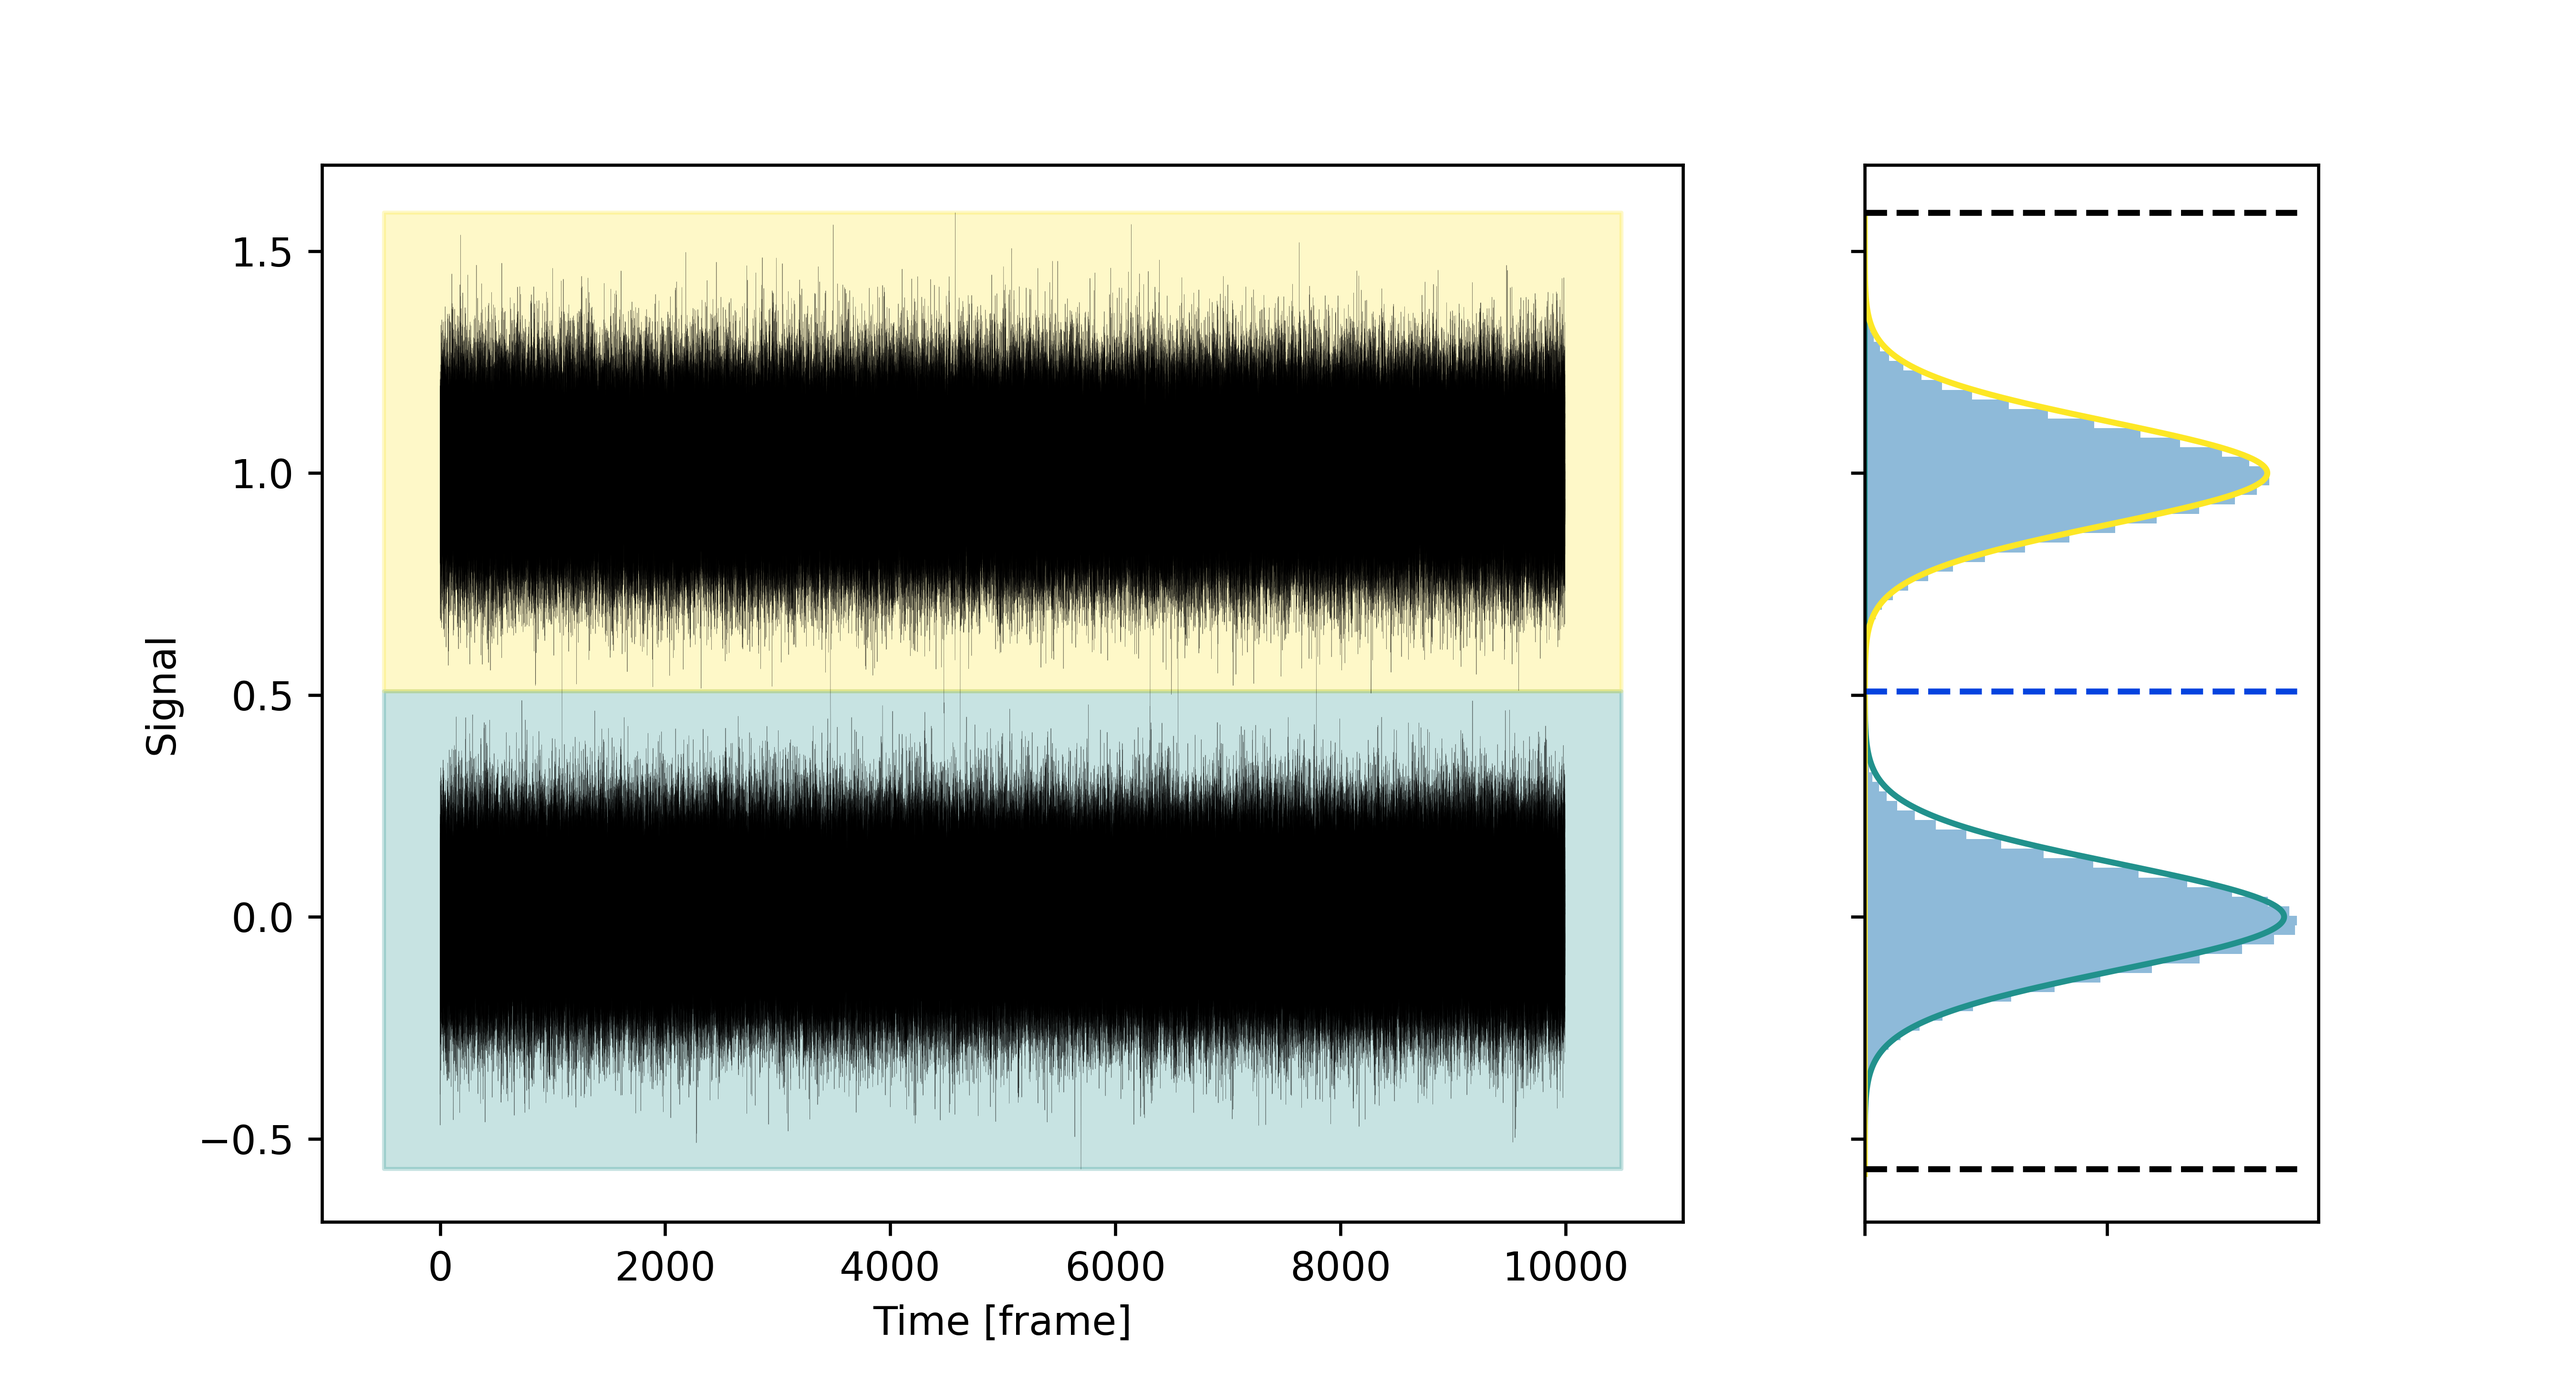
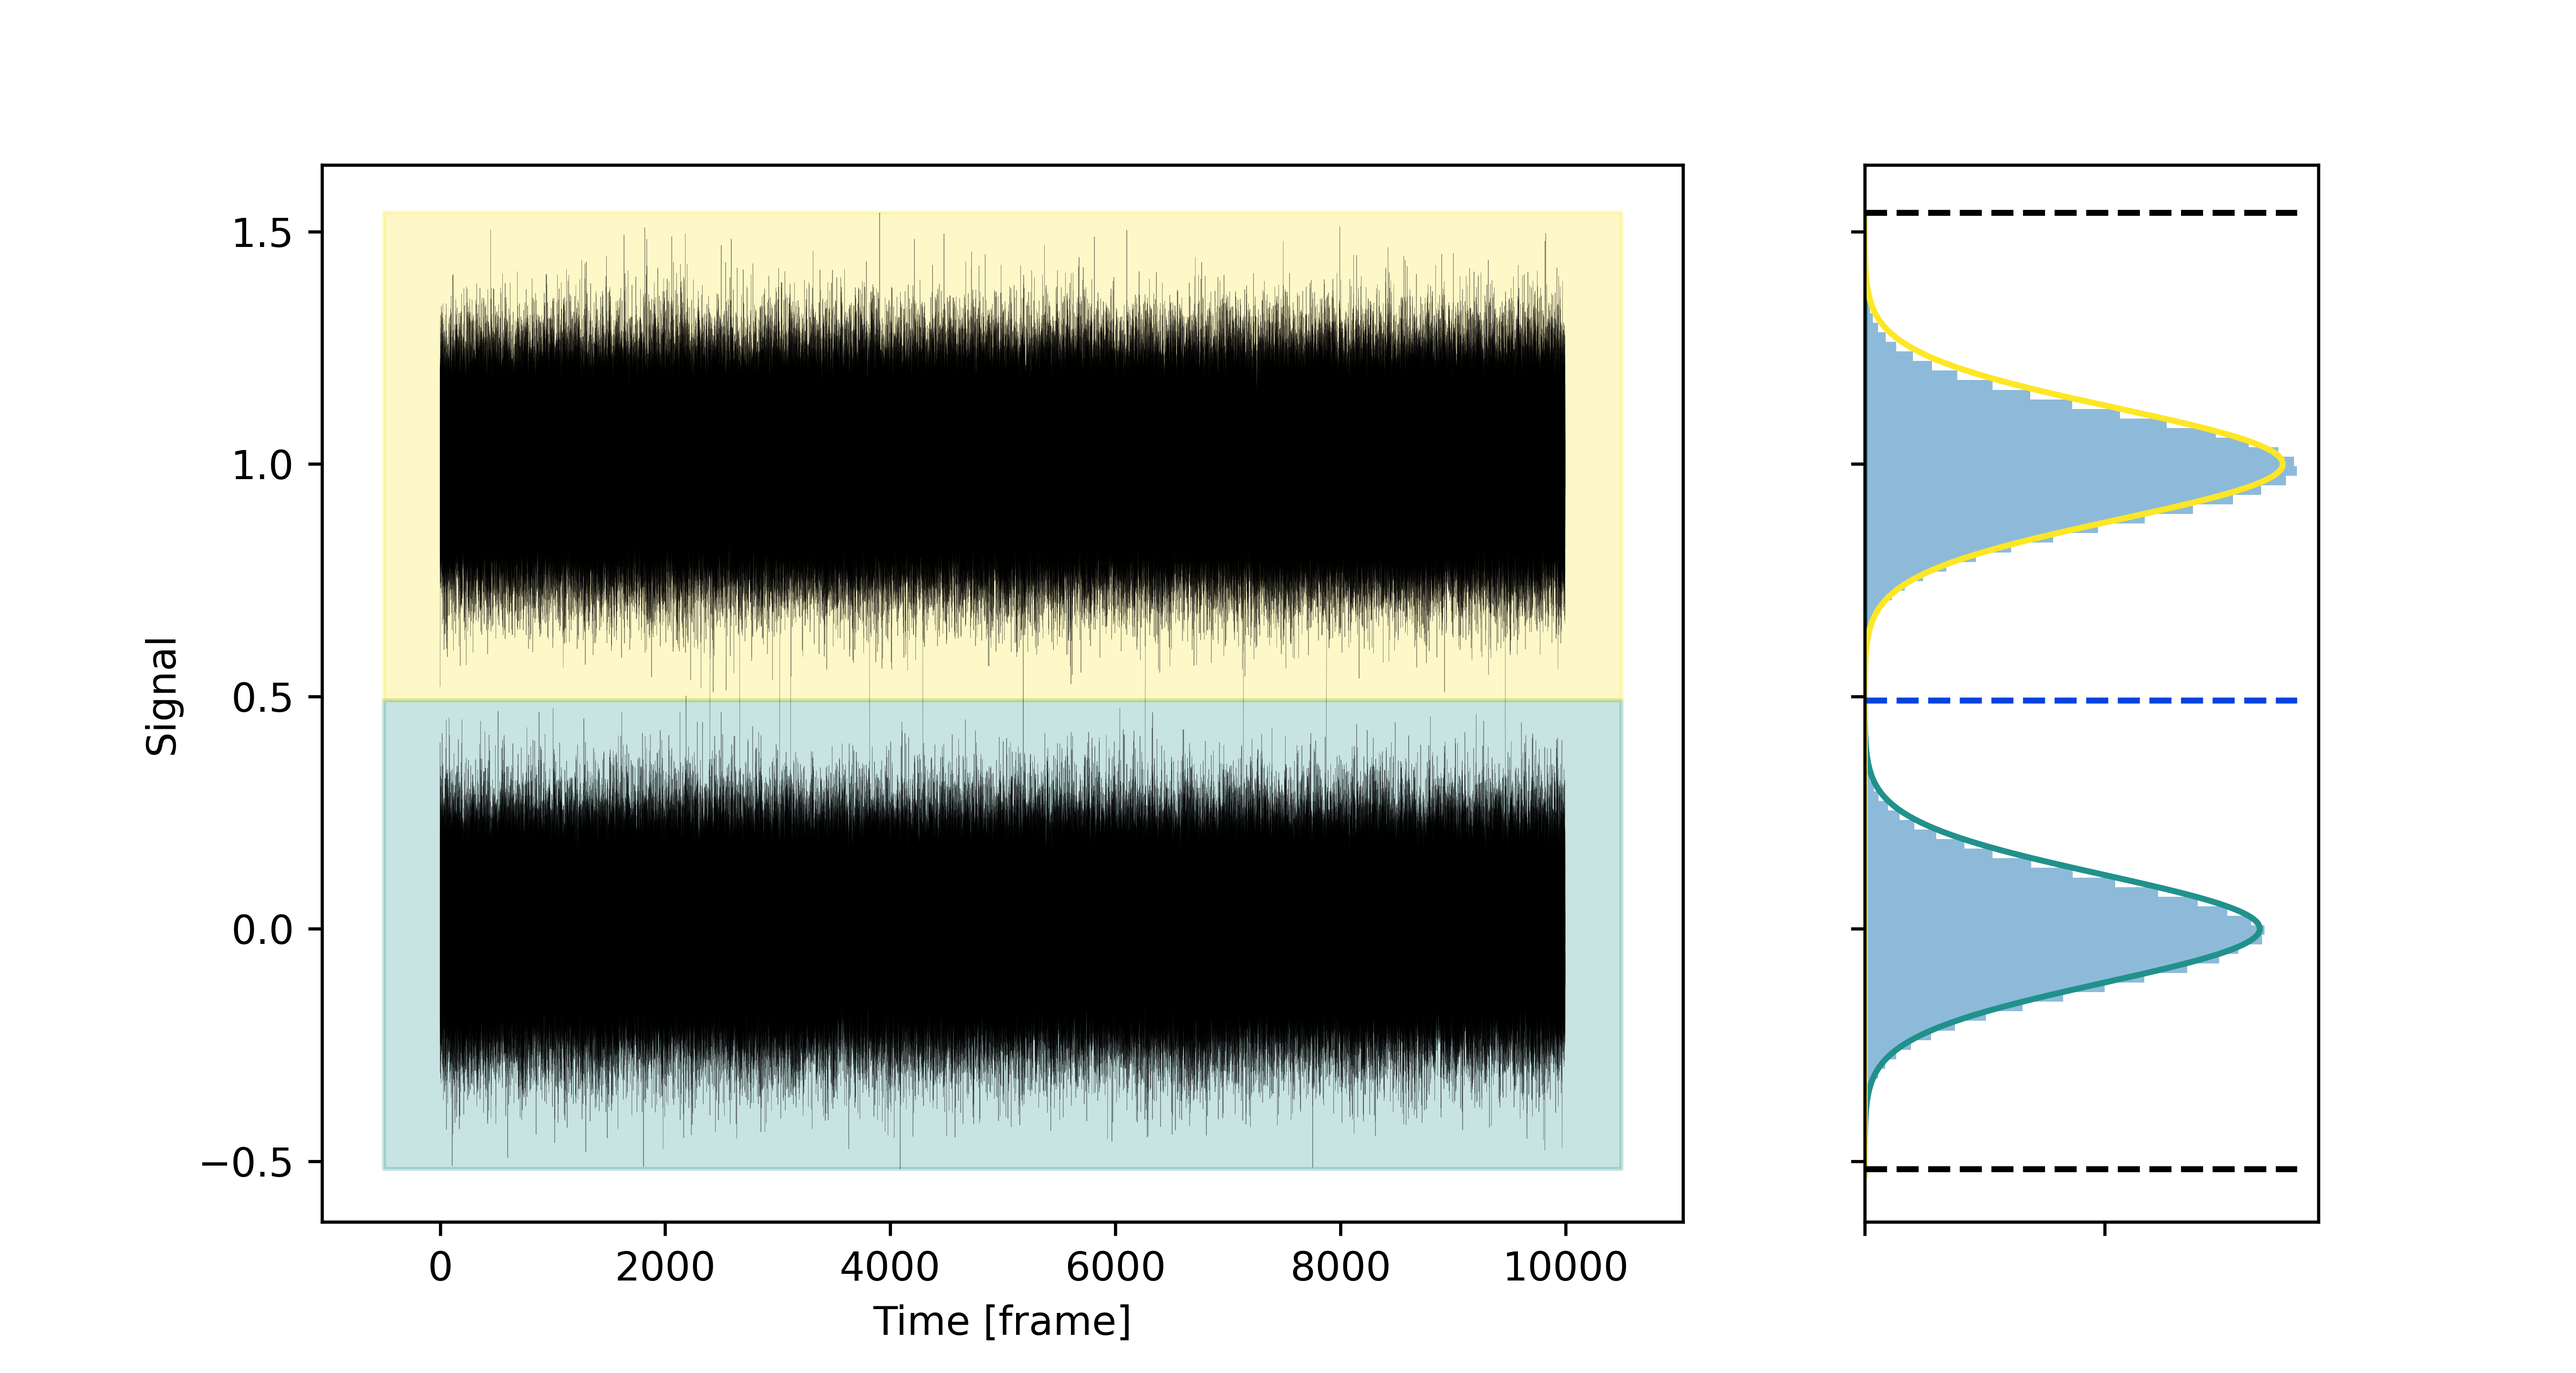
Info gain example is perfect now

diff --git a/examples/info_gain.py b/examples/info_gain.py
@@ -20,17 +20,18 @@ def energy_landscape_1(x: float, y: float) -> float:
     """A potential energy landscape with 2 minima."""
     sigma = 0.12  # Width of the Gaussian wells
     gauss1 = np.exp(-(x**2 + y**2) / (2 * sigma**2))
-    gauss2 = np.exp(-((x - 1) ** 2 + y**2) / (2 * sigma**2))
+    gauss2 = np.exp(-(x**2 + (y - 1) ** 2) / (2 * sigma**2))
     return -np.log(gauss1 + gauss2 + 1e-6)
 
 
 def energy_landscape_2(x: float, y: float) -> float:
-    """A potential energy landscape with 3 minima."""
+    """A potential energy landscape with 4 minima."""
     sigma = 0.12  # Width of the Gaussian wells
     gauss1 = np.exp(-(x**2 + y**2) / (2 * sigma**2))
     gauss2 = np.exp(-((x - 1) ** 2 + y**2) / (2 * sigma**2))
     gauss3 = np.exp(-(x**2 + (y - 1) ** 2) / (2 * sigma**2))
-    return -np.log(gauss1 + gauss2 + gauss3 + 1e-6)
+    gauss4 = np.exp(-((x - 1) ** 2 + (y - 1) ** 2) / (2 * sigma**2))
+    return -np.log(gauss1 + gauss2 + gauss3 + gauss4 + 1e-6)
 
 
 def numerical_gradient(
@@ -43,17 +44,25 @@ def numerical_gradient(
 
 
 def create_trajectory(
-    energy_landscape: Callable[[float, float], float], name: str
+    energy_landscape: Callable[[float, float], float], file_name: str
 ) -> NDArray[np.float64]:
-    """Simulate a Langevin Dynamics on a given energy landscape."""
+    """Simulate Langevin Dynamics on a given energy landscape."""
     rng = np.random.default_rng(0)
     n_atoms = 100
     time_steps = 10000
     dt = 0.01  # Time step
     diffusion_coeff = 0.6  # Diffusion coefficient (random noise strength)
 
-    particles = rng.standard_normal((n_atoms, 2)) * 0.2
-    particles[n_atoms // 2 :, 0] += 1
+    if energy_landscape == energy_landscape_1:
+        particles = rng.standard_normal((n_atoms, 2)) * 0.2
+        particles[n_atoms // 2 :, 1] += 1.0
+    else:
+        particles = rng.standard_normal((n_atoms, 2)) * 0.2
+        n_group = n_atoms // 4
+        particles[n_group : 2 * n_group, 1] += 1  # (0, 1)
+        particles[2 * n_group : 3 * n_group, 0] += 1  # (1, 0)
+        particles[3 * n_group :, 0] += 1  # (1, 1)
+        particles[3 * n_group :, 1] += 1
 
     trajectory = np.zeros((time_steps, n_atoms, 2))
     for t in range(time_steps):
@@ -74,7 +83,7 @@ def create_trajectory(
     plt.show()
 
     dataset = np.transpose(trajectory, (1, 0, 2))
-    np.save(f"info_gain/trj_{name}.npy", dataset)
+    np.save(f"info_gain/{file_name}.npy", dataset)
     return dataset
 
 
@@ -86,73 +95,83 @@ def main() -> None:
     if file_1.exists():
         dataset_1 = np.load(file_1)
     else:
-        dataset_1 = create_trajectory(energy_landscape_1, "1")
+        dataset_1 = create_trajectory(energy_landscape_1, "trj_1")
     if file_2.exists():
         dataset_2 = np.load(file_2)
     else:
-        dataset_2 = create_trajectory(energy_landscape_2, "2")
+        dataset_2 = create_trajectory(energy_landscape_2, "trj_2")
 
     results = []
-    delta_t_list = np.unique(np.geomspace(2, 300, 40, dtype=int))
-    example_delta_t = 4  #  Choosing a ∆t which works well to show results
+    env0 = []
+    delta_t_list = np.unique(np.geomspace(2, 1000, 45, dtype=int))
+    example_delta_t = 4  #  Choosing a ∆t which works well to plot results
 
-    for k, dataset in enumerate([dataset_1, dataset_2]):
+    for i, dataset in enumerate([dataset_1, dataset_2]):
         n_atoms, n_frames, n_dims = dataset.shape
 
         # We can do clustering on one single variable:
-        x_positions = dataset[:, :, 0]
-        info_gain_x = np.zeros(delta_t_list.size)
+        y_positions = dataset[:, :, 1]
+        info_gain_y = np.zeros(delta_t_list.size)
+        tmp_env0 = np.zeros(delta_t_list.size)
 
-        for i, delta_t in enumerate(delta_t_list):
+        for j, delta_t in enumerate(delta_t_list):
             reshaped_data = dynsight.onion.helpers.reshape_from_nt(
-                x_positions, delta_t
+                y_positions, delta_t
             )
             state_list, labels = dynsight.onion.onion_uni(reshaped_data)
+            tmp_env0[j] = np.sum(labels == -1) / labels.size
 
-            if i == example_delta_t:
+            if j == example_delta_t:
                 dynsight.onion.plot.plot_output_uni(
-                    f"info_gain/tmp_{k}_1D.png",
+                    f"info_gain/tmp_{i}_1D.png",
                     reshaped_data,
                     n_atoms,
                     state_list,
                 )
 
-            # and compute the relative information gain:
-            info_gain_x[i], *_ = dynsight.analysis.compute_entropy_gain(
+            # and compute the information gain:
+            info_gain_y[j], *_ = dynsight.analysis.compute_entropy_gain(
                 reshaped_data, labels, n_bins=40
             )
-        results.append(info_gain_x)
+        results.append(info_gain_y)
+        env0.append(tmp_env0)
 
-        # We can do clustering on both variables:
+        # Or we can do clustering on both variables:
         info_gain_xy = np.zeros(delta_t_list.size)
+        tmp_env0 = np.zeros(delta_t_list.size)
         tmp1_dataset = np.transpose(dataset, (2, 0, 1))
-        for i, delta_t in enumerate(delta_t_list):
+        for j, delta_t in enumerate(delta_t_list):
             reshaped_data = dynsight.onion.helpers.reshape_from_dnt(
                 tmp1_dataset, delta_t
             )
             state_list, labels = dynsight.onion.onion_multi(reshaped_data)
+            tmp_env0[j] = np.sum(labels == -1) / labels.size
 
-            if i == example_delta_t:
+            if j == example_delta_t:
                 dynsight.onion.plot.plot_output_multi(
-                    f"info_gain/tmp_{k}_2D.png",
+                    f"info_gain/tmp_{i}_2D.png",
                     tmp1_dataset,
                     state_list,
                     labels,
                     delta_t,
                 )
 
-            # and compute the relative information gain:
-            # We need an array (n_samples, n_dims)
+            # and compute the information gain:
+            # We need an array (n_samples, n_dims), and labels (n_samples,)
             n_sequences = int(n_frames / delta_t)
             long_labels = np.repeat(labels, delta_t)
             tmp = dataset[:, : n_sequences * delta_t, :]
             ds_reshaped = tmp.reshape((-1, n_dims))
 
-            info_gain_xy[i], *_ = dynsight.analysis.compute_multivariate_gain(
+            info_gain_xy[j], *_ = dynsight.analysis.compute_multivariate_gain(
                 ds_reshaped, long_labels, n_bins=[40, 40]
             )
-        info_gain_xy *= 2  # Need to multiply by two because it's 2 dimensional
+        # Need to multiply by two because it's 2 dimensional, and the output
+        # of the info_gain functions is normalized by the log volume of the
+        # phase space, which is 2D is doubled
+        info_gain_xy *= 2
         results.append(info_gain_xy)
+        env0.append(tmp_env0)
 
     fig, ax = plt.subplots()
     ax.plot(
@@ -162,29 +181,28 @@ def main() -> None:
         delta_t_list,
         results[1],
         label="2 minima - 2D clustering",
-        marker="o",
         c="C2",
+        marker="o",
     )
     ax.plot(
         delta_t_list,
         results[2],
-        label="3 minima - 1D clustering",
-        marker="o",
+        label="4 minima - 1D clustering",
         ls="--",
         c="C1",
+        marker="o",
     )
     ax.plot(
         delta_t_list,
         results[3],
-        label="3 minima - 2D clustering",
-        marker="o",
+        label="4 minima - 2D clustering",
         c="C3",
+        marker="o",
     )
     ax.set_xlabel(r"Time resolution $\Delta t$ [frame]")
     ax.set_ylabel(r"Information gain $\Delta H$ [bit]")
     ax.set_xscale("log")
     ax.legend()
-    plt.show()
     fig.savefig("info_gain/Information_gains.png", dpi=600)
 
 
